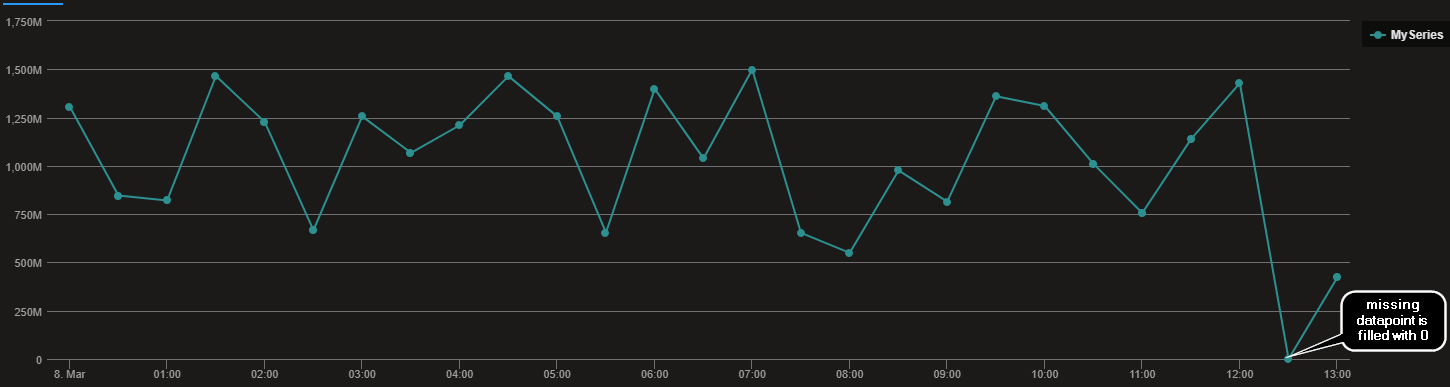
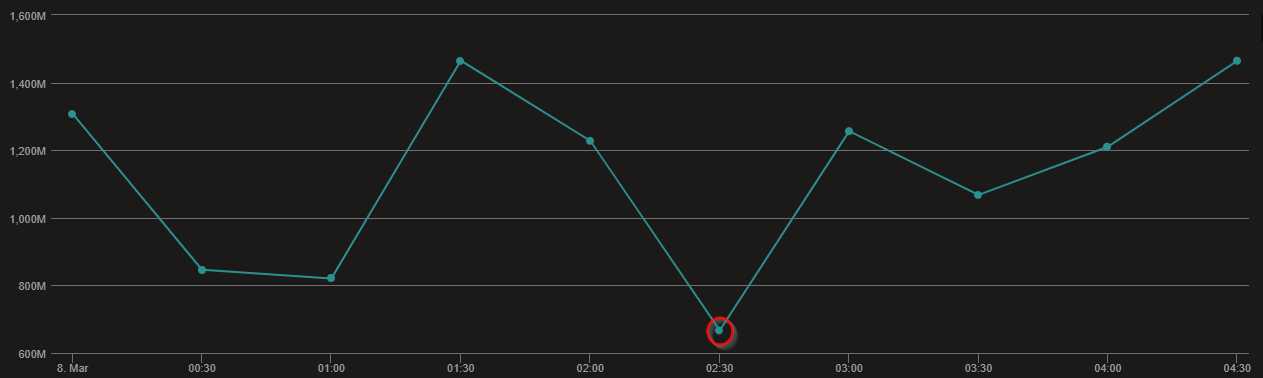
Scalar changes Lab 2

diff --git a/README.md b/README.md
@@ -43,7 +43,11 @@ Database policies can be overridden per table using a KQL control command.
 ADX cluster and database are Azure resources. A database is a sub-resource of the cluster, so it can be edited from the portal. Tables are not considered an Azure resource, so they cannot be managed in the portal but via a KQL command.    
 You can always use KQL commands to alter the policies of the entire Cluster/Database/tables. Table level policy takes precedence over database level which takes precedence over cluster level.
 
-Alter the retention policy of the table ingestionLogs to 180 days.
+```
+.alter table ingestionLogs policy retention { "SoftDeletePeriod": "10.12:00:00", "Recoverability": "Enabled" }
+```
+
+**Question:** How many total hours is the retention policy of ingestionLogs table after running the above query?
 
 [.alter table retention policy command](https://learn.microsoft.com/en-us/azure/data-explorer/kusto/management/alter-table-retention-policy-command)
 
@@ -66,7 +70,11 @@ The first character of the KQL text determines if the request is a control comma
 
 As part of an incident investigation, you need to find out how many queries were executed in the past 3 hours.
 <br>
-Write a command to count the number of queries that you ran (use the _User_ column), in the past 3 hours.
+Write a command to count the number of queries that you ran, in the past 3 hours.
+
+**Question:** Which column in .show queries has information related to user or app that has run the queries?
+
+Hint : The column shows email of users who ran the queries.
 
 Reference:
 [.show queries](https://docs.microsoft.com/en-us/azure/data-explorer/kusto/management/queries)
@@ -74,8 +82,11 @@ Reference:
 ---
 #### Challenge 6, Task 3: Use .journal commands 🎓
 
-Write a command to show the details of the function that you created earlier. When did you create the function? <br>
-Hint: use the 'Event' and the 'EventTimestamp' columns.
+Write a command to show the details of the function that you created earlier? <br>
+
+**Question:** What is the 'Event' column value for records which shows the details of function creation?
+
+Hint: You can either create a new function and check the latest .show journal entry or look for record that was created as a part of Challenge 4, Task 1 
 
 Reference:
 [.show journal](https://docs.microsoft.com/en-us/azure/data-explorer/kusto/management/journal)
@@ -85,21 +96,24 @@ Reference:
 
 Write a command to count the number commands that you run (use the User column), in the past 4 hours.
 
+**Question:** What is the "AuthorizationScheme" for commands issued by you?
+
+Hint: Authorization details are available in "ClientRequestProperties" column in .show commands output
+
 Reference:
 [.show commands](https://docs.microsoft.com/en-us/azure/data-explorer/kusto/management/commands)
-
 
 ---
 #### Challenge 6, Task 5: Table details and size 🎓
 
-Write a control command to show following details on all tables in the database.
-- Use calculated columns using 'extend' operator to show the [extent](https://docs.microsoft.com/en-us/azure/data-explorer/kusto/management/extents-overview) size of the data, per table size in GB. <br>
+Write a control command to show details on ingestionLogs tables in the database.
 
-Hint: ADX provides function to format bytes into MB or GB or TB: format_bytes(*YourColumn*, 2) <br>
+**Question:** What is the "DataHotSpan" for ingestionLogs table? 
+
+Hint: Details about cache policy can be extracted from "CachingPolicy" column.  <br>
 
 Reference:
 - [.show table details](https://docs.microsoft.com/en-us/azure/data-explorer/kusto/management/show-table-details-command)
-- [format_bytes()](https://docs.microsoft.com/en-us/azure/data-explorer/kusto/query/format-bytesfunction)
 
 ---
 
@@ -132,6 +146,8 @@ ingestionLogs
 | summarize count() by bin(Timestamp,...)
 ```
 
+**Question:** What is the count_ at 2014-03-08 00:00:00.0000 ?
+
 Reference:
 - [let](https://docs.microsoft.com/en-us/azure/data-explorer/kusto/query/letstatement#examples)
 - [bin()](https://learn.microsoft.com/en-us/azure/data-explorer/kusto/query/binfunction)
@@ -139,7 +155,9 @@ Reference:
 
 ---
 #### Challenge 7, Task 2: Use the search operator 🎓
-You received an alert early in the morning regarding multiple Timeouts in your system. You want to quickly search the traces without using specific columns or table names. Write a query to "search" for "Exception=System.Timeout" string in entire database.
+You received an alert early in the morning regarding multiple Timeouts in your system. You want to quickly search the traces without using specific columns or table names. 
+
+**Question:** Write a query to "search" for "Exception=System.Timeout" string in entire database.
 
 Reference:
 [search operator](https://learn.microsoft.com/en-us/azure/data-explorer/kusto/query/searchoperator?pivots=azuredataexplorer)
@@ -154,8 +172,11 @@ An example of a typical message would be:
  $$IngestionCommand table=scaleEvents format=json
 ```
 You want to analyze all the message strings, by extracting the _Message_ text into 2 calculated separate columns: table and format. 
-Let's extract that to discover the number of records per format (_summarize count() by format_). <br> 
-Hint: Don't think about writing a REGEX. ADX can parse key-value pairs, JSON, XML, URLs, and IPv4s. 
+Let's extract that to discover the number of records per format. <br> 
+
+**Question:** What is the count of json format? 
+
+Hint: Use summarize to count() by format
 
 Reference:
 [parse-kv](https://learn.microsoft.com/en-us/azure/data-explorer/kusto/query/parse-kv-operator)
@@ -184,7 +205,7 @@ Time series decomposition involves thinking of a series as a combination of 4 co
 - noise (the residual random variation in the series). 
 We can use built in functions, that uses time series decomposition to forecast future metric values and/or detect anomalous values.
 
-**Why should you use series instead of the summarize operator?**
+**Why should you use make-series instead of the summarize operator?**
 The summarize operator does not add "null bins" — rows for time bin values for which there's no corresponding row in the table. It's a good idea to "pad" the table with those bins. Advanced built in ML capabilities like anomaly detection need the data points to be **consistently measured at equally spaced intervals**. <br>
 The _make-series_ operator can create such a “complete” series.
 
@@ -192,34 +213,23 @@ The _make-series_ operator can create such a “complete” series.
 
 #### Challenge 7, Task 4: Nulls are important in timeseries analysis (Compare summarize and make-series)
 
-In this task, you are going to compare the output of 2 different operators (summarize & make-series) within KQL for the same query. This task is divided into 2 parts. You will compare the outputs of these 2 parts.
+In this task, calculate the average size of data ingested per 30 min by the node 'Engine000000000378'. Use Component as 'INGESTOR_EXECUTER'. File size is available in the 'Properties' column. Render it as a timechart.
 
-Part 1: Calculate the average size of data ingested per 30 min by the node 'Engine000000000378'. Use Component as 'INGESTOR_EXECUTER'. File size is available in the 'Properties' column. Render the output as a timechart.
+Hint : complete the following query
+```
+let TimeBuckets = ....;
+ingestionLogs 
+| where Component == "INGESTOR_EXECUTER" and Node == "Engine000000000378"
+| extend Size = ....
+| make-series MySeries=round(avg(Size),2) on Timestamp step TimeBuckets by Level
+| render ....
+```
 
-Hint 1: Use 'extend' operator to create a calculated/derived column <br>
-Hint 2: Think about the datatype of the calculated column. Use 'tolong()'.<br>
-Hint 3: Use bin() function to create time buckets of the specified duration<br>
-Hint 4: Use 'summarize' operator to do the calculation
-
-Example Output:
-![Screen capture 1](/assets/images/Challenge7-Task4-Part1-Pic1.png)
-
-Reference:
-- [summarize operator](https://docs.microsoft.com/en-us/azure/data-explorer/kusto/query/summarizeoperator)
-- [extend operator](https://docs.microsoft.com/en-us/azure/data-explorer/kusto/query/extendoperator)
-- [bin()](https://learn.microsoft.com/en-us/azure/data-explorer/kusto/query/binfunction)
-- [tolong()](https://learn.microsoft.com/en-us/azure/data-explorer/kusto/query/tolongfunction)
-
-Part 2: Calculate the average size of data ingested per 30 min by the node 'Engine000000000378'. Use Component as 'INGESTOR_EXECUTER'. File size is available in the 'Properties' column. Render it as a timechart.
-
-Hint 1: Use 'extend' operator to create a calculated/derived column<br>
-Hint 2: Think about the datatype of the calculated column. Use 'tolong()'.<br>
-Hint 3: Use 'make-series' operator <br>
+**Question:** What is the file size  value (y axis) at 2014-03-08 02:30:00.000 ?
 
 Example Output:
+
 ![Screen capture 1](/assets/images/Challenge7-Task4-Part2-Pic1.png)
-
-** Observing both the above graphs will reveal that , make-series has padded a missing time (12:30) with zero (Graph falls to 0 at this time) and summarize does not (Graph does not fall to 0 and does not reflect any data at this time).**
 
 **Why should you use make-series instead of the summarize operator?**
 
@@ -235,19 +245,20 @@ Reference:
 
 #### Challenge 7, Task 5: Anomaly detection 🎓
 Anomaly detection lets you find outliers/anomalies in the data. <br>
-Let's find out any file size anomalies by summarizing the sum of file sizes in 5-minute intervals <br>
+Let's find out any file size anomalies by summarizing the average of file sizes in 5-minute intervals <br>
 Can you spot red dots indicating outliers/anomalies i.e.,spikes in file size on the chart?
 
 Hint: Use series_decompose_anomalies to render anomaly chart <br>
 Hint: Fill in the blanks to complete the query <br>
 ```
-let TimeBuckets = 5m;
-ingestionLogs 
+let TimeBuckets = 1m;
+ingestionLogs
 | extend Size = tolong(Properties.size)
-| make-series ...........
-| extend anomaly = series_decompose_anomalies(.....,1)
-| render........ with(anomalycolumns=anomaly, title='Ingestion Anomalies') 
+| make-series ActualSize=round(avg(Size),2) on .... step ....
+| extend anomaly = series_decompose_anomalies(....)
+| render anomalychart with(anomalycolumns=...., title='Ingestion Anomalies')
 ```
+**Question:** What is the anomaly value (y axis) at 2014-03-08 04:24:00:000?
 
 Example result:<br>
 <img src="/assets/images/anomalies.png" width="1100">
@@ -291,7 +302,12 @@ Looking at the query results, you can see that the query: <br>
 
 Using the Dashboard feature of Azure Data Explorer, build a dashboard using outputs of below 3 queries (on ingestionLogs table).
 
-When creating a dashboard in ADX, use the cluster URI of your free cluster as the data source.
+<img src="/assets/images/Challenge8-goto-dashboard.png" width="800">
+
+After you provide dashboard name and click "Next", click on "+ Add tile" next. You will be prompted to add a data source. Click on "+ Data source"
+<img src="/assets/images/Challenge8-goto-dashboard.png" width="800">
+
+Use the cluster URI of your free cluster as the data source.
 <img src="/assets/images/free_cluster_uri.png" width="800">
 
 Try this! 
@@ -303,28 +319,30 @@ ingestionLogs
 ```
 - Use the above example query as reference to add Timestamp filter with _startTime and _endTime filter to queries in task 1 and task 2.
 
-- The following 2 tasks use the timefilter between 2014-03-08T07:00:00 and 2014-03-08T12:00:00
+- The following 2 tasks use the timefilter between 2014-03-08T00:00:00 and 2014-03-08T03:00:00
 
 ---
 #### Challenge 8, Task 1 : Find the anomaly value 🎓
 Parameterize (add Timefilter) and render an Anomaly chart using the following Anomaly detection query. The chart should show values between 2014-03-08T07:00:00 and 2014-03-08T12:00:00.
-**Question**: What is the anomaly value(y axis) at exactly 10:49 on x axis.
+**Question**: What is the anomaly value(y axis) at exactly 00:30 on x axis.
 
 ```
-let TimeBuckets = 1m;
+let TimeBuckets = 5m;
 ingestionLogs 
-| where Level == "Information"
-| make-series MySeries=count() on Timestamp step TimeBuckets by Level
-| extend anomaly = series_decompose_anomalies(MySeries)
+| <Add Timefilter parameters>
+| make-series MySeries=count() on Timestamp step TimeBuckets
+| extend anomaly = series_decompose_anomalies(MySeries,1)
+
 ```
 ---
 #### Challenge 8, Task 2 : Find the warning percentage 🎓
-Parameterized (add Timefilter) and render a Piechart using the following query. The chart should show values between 2014-03-08T07:00:00 and 2014-03-08T12:00:00.
+Parameterize (add Timefilter) and render a Piechart using the following query. The chart should show values between 2014-03-08T07:00:00 and 2014-03-08T12:00:00.
 
 **Question**: What is the warning % on the piechart?
 
 ```
 ingestionLogs
+| <Add Timefilter parameters>
 | summarize count() by Level
 ```
 
